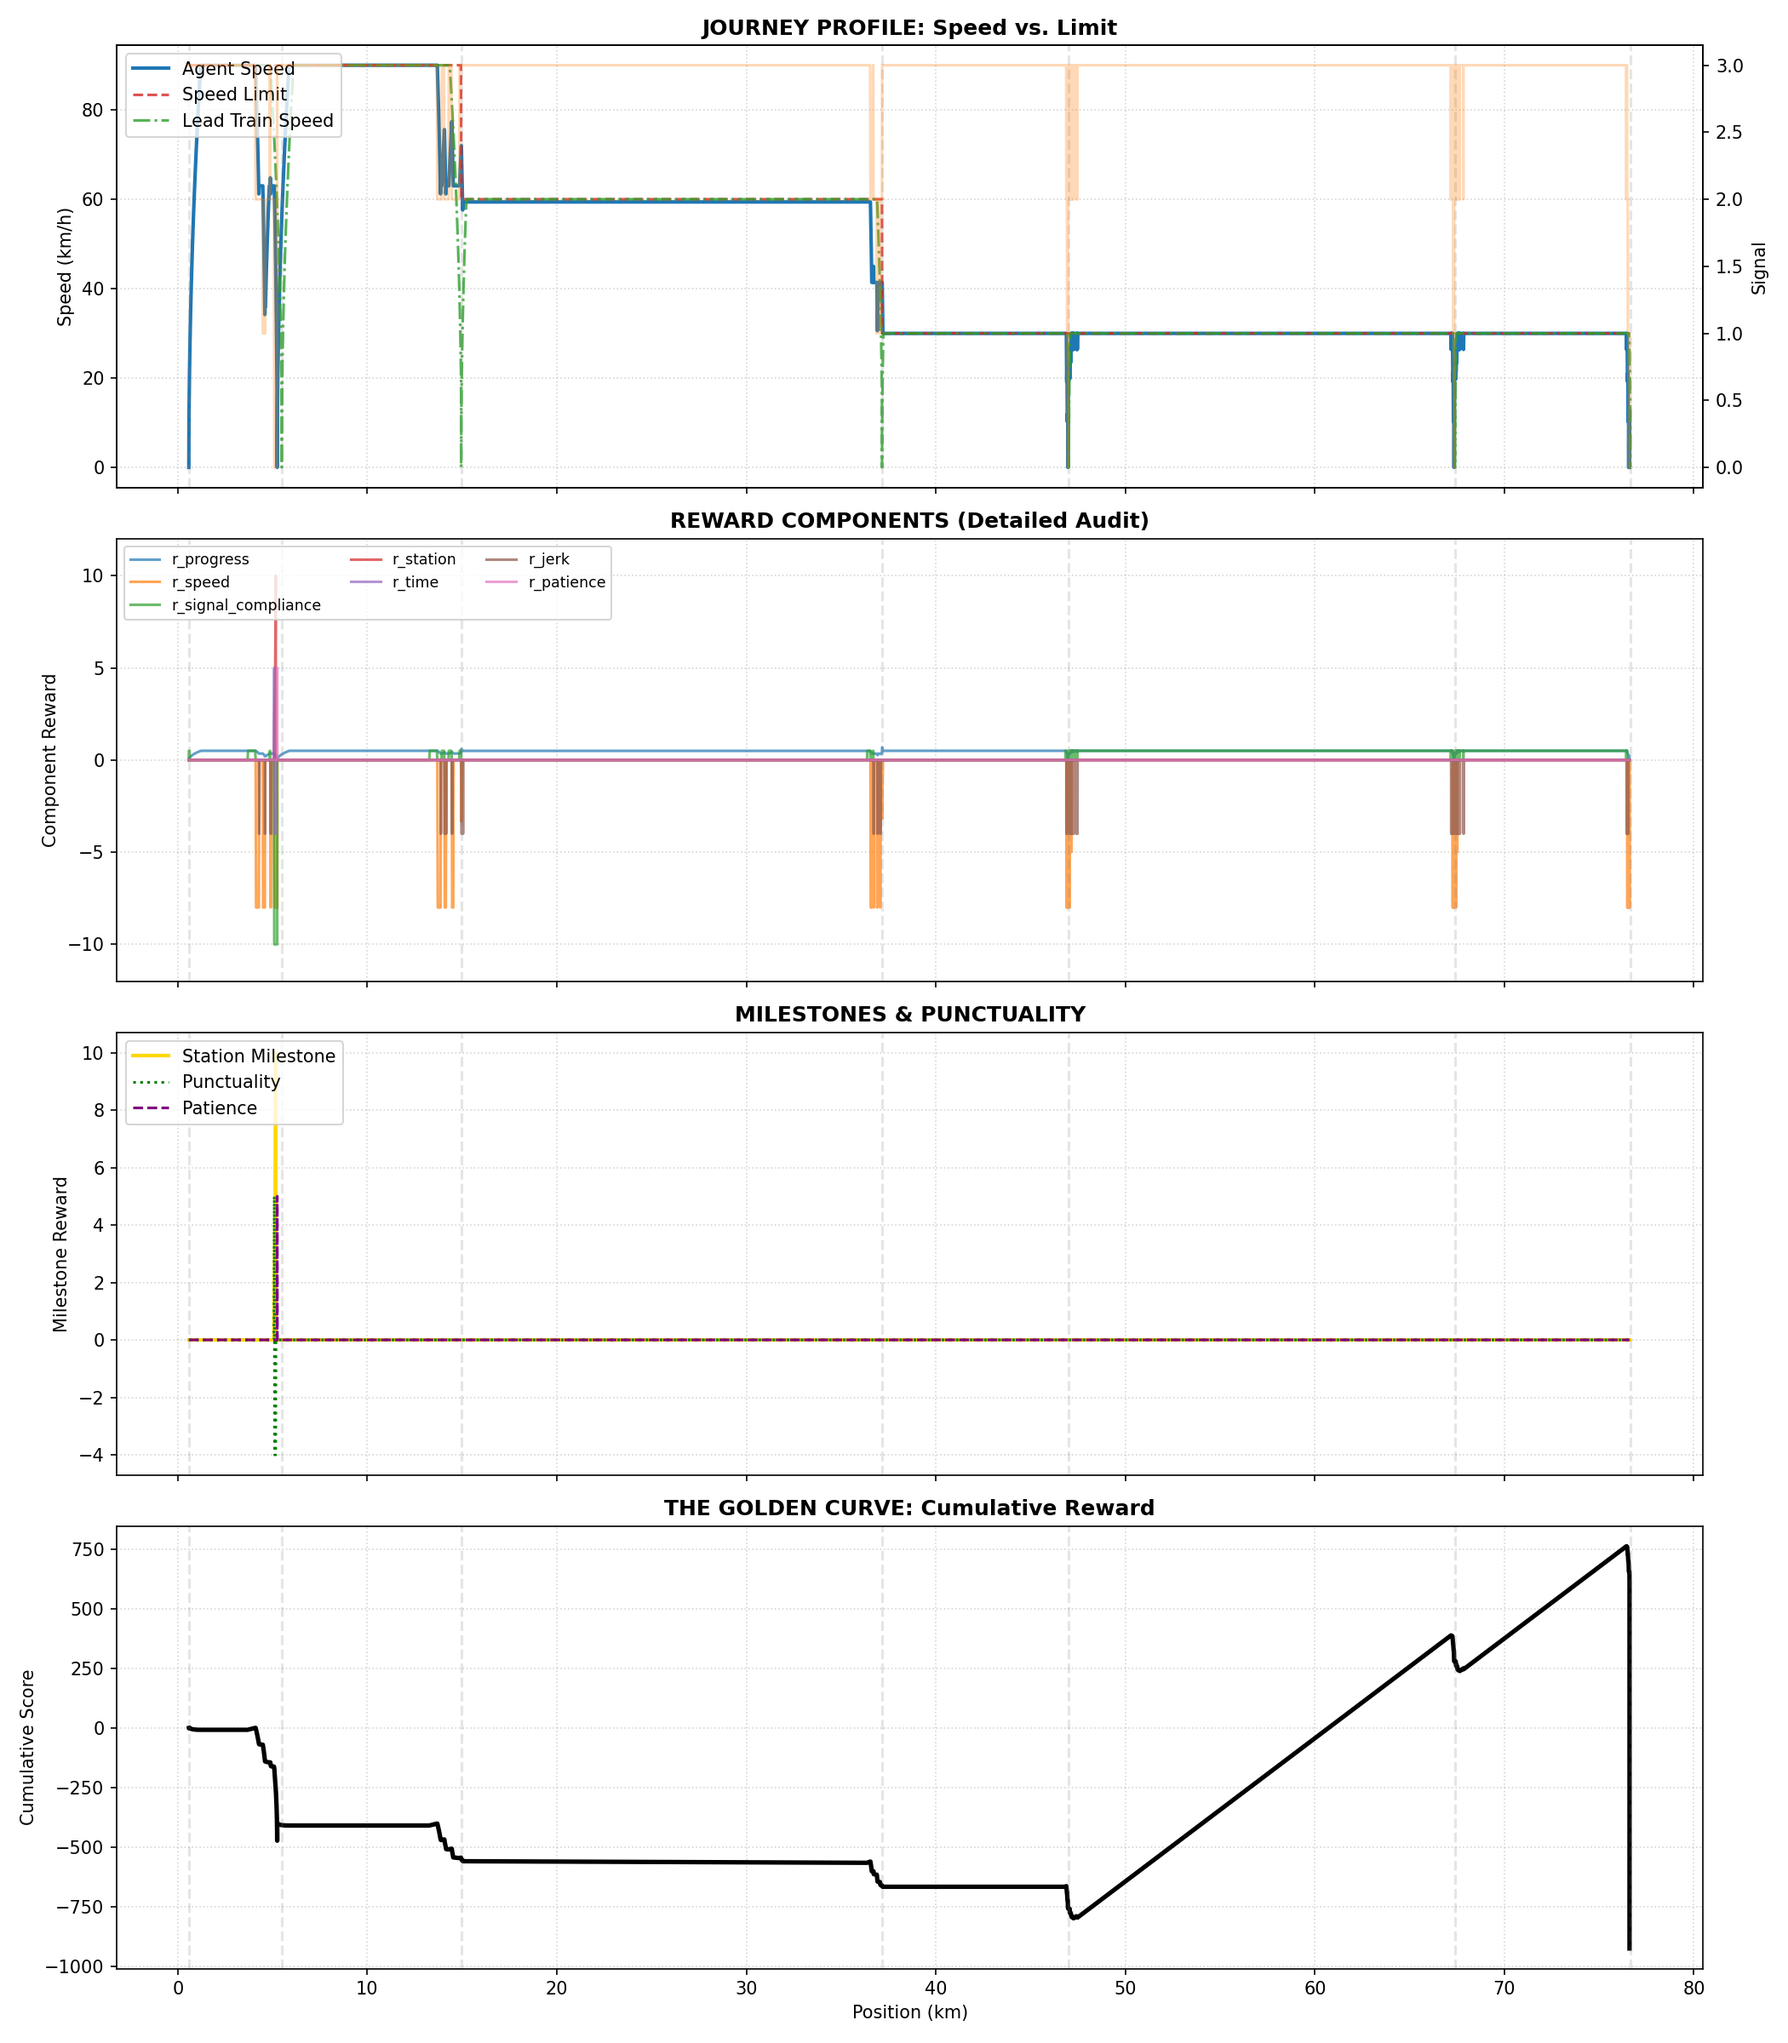
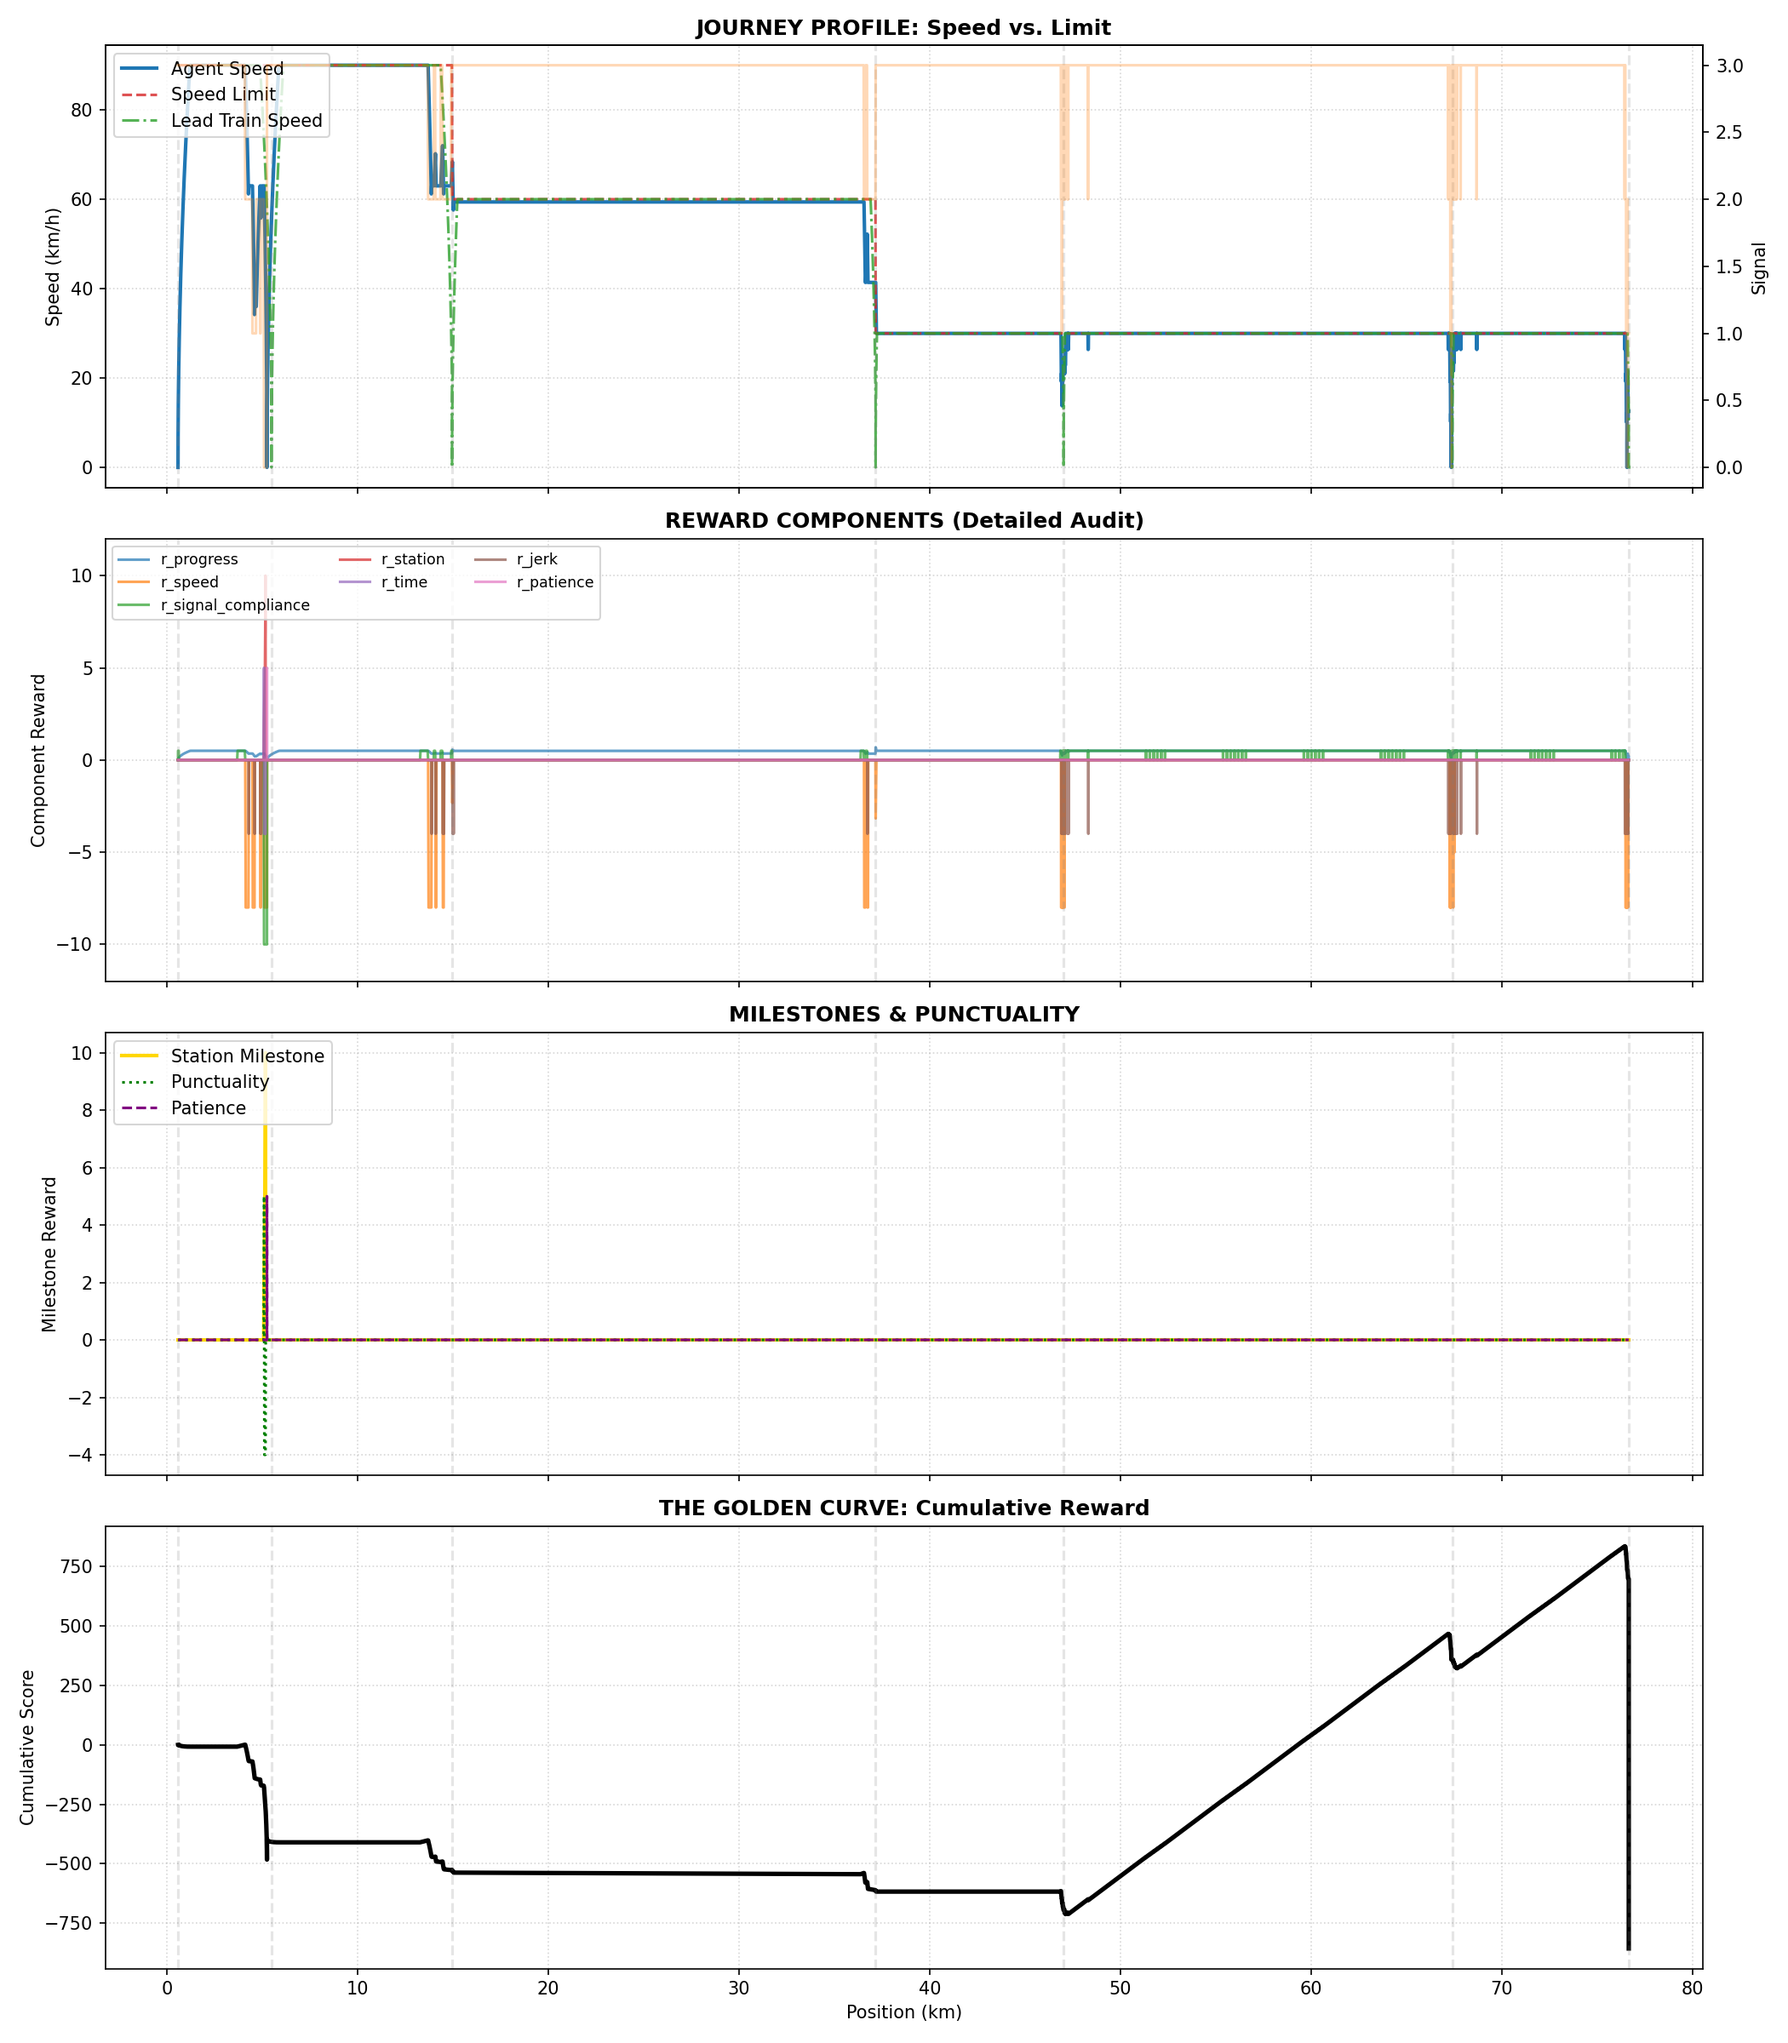
feat: add lead_stop_offset to reward environment and update validation logs with new constraint violations

diff --git a/think_layer/config.py b/think_layer/config.py
@@ -39,7 +39,7 @@ class TrainConfig:
     # Must be > 1 SH (~40m) + terminus gap so the AI sees Green/Yellow
     # all the way to 76651m and avoids the Red-aspect stagnation trap.
     # 94.7m = original 34.7m + 60m extra clearance.
-    lead_stop_offset: float = 94.7
+    lead_stop_offset: float = 194.7
     max_episode_steps: int = 10_000
     n_envs: int = 12
     slack_factor: float = 1.1  # 10% operational buffer for RL stability

diff --git a/reward/plot_reward.py b/reward/plot_reward.py
@@ -24,6 +24,7 @@ def run_and_collect():
     """Run full episode and collect reward breakdown."""
     env = ModernizedLine104(
         lead_train_speed=DEFAULT_CONFIG.lead_train_speed,
+        lead_stop_offset=DEFAULT_CONFIG.lead_stop_offset,
         training_mode=False
     )
     
